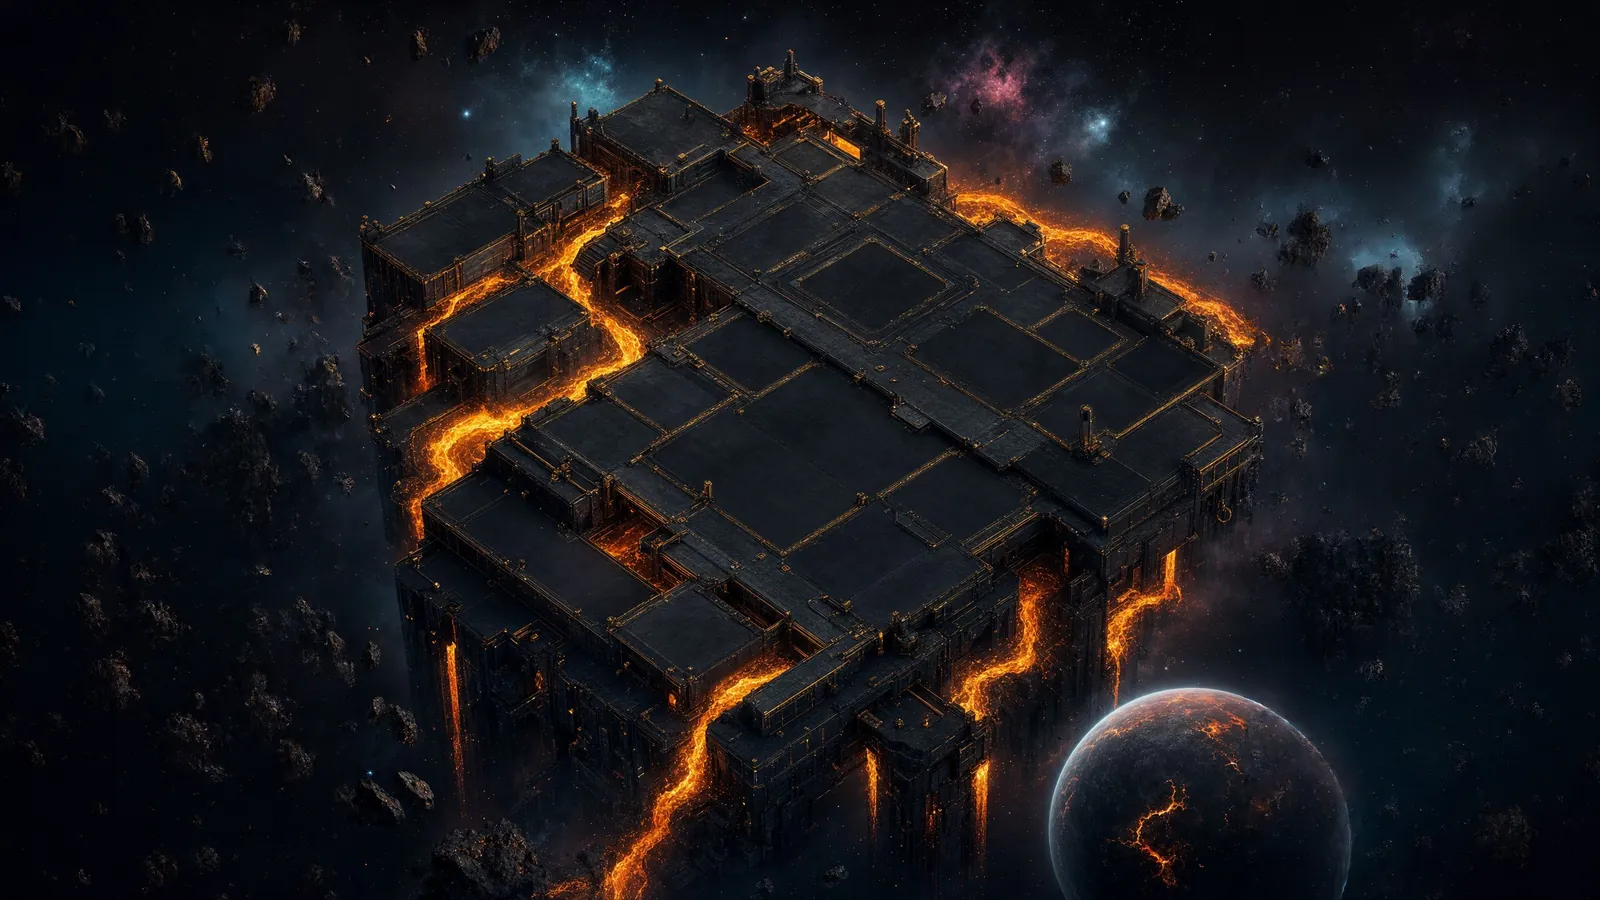
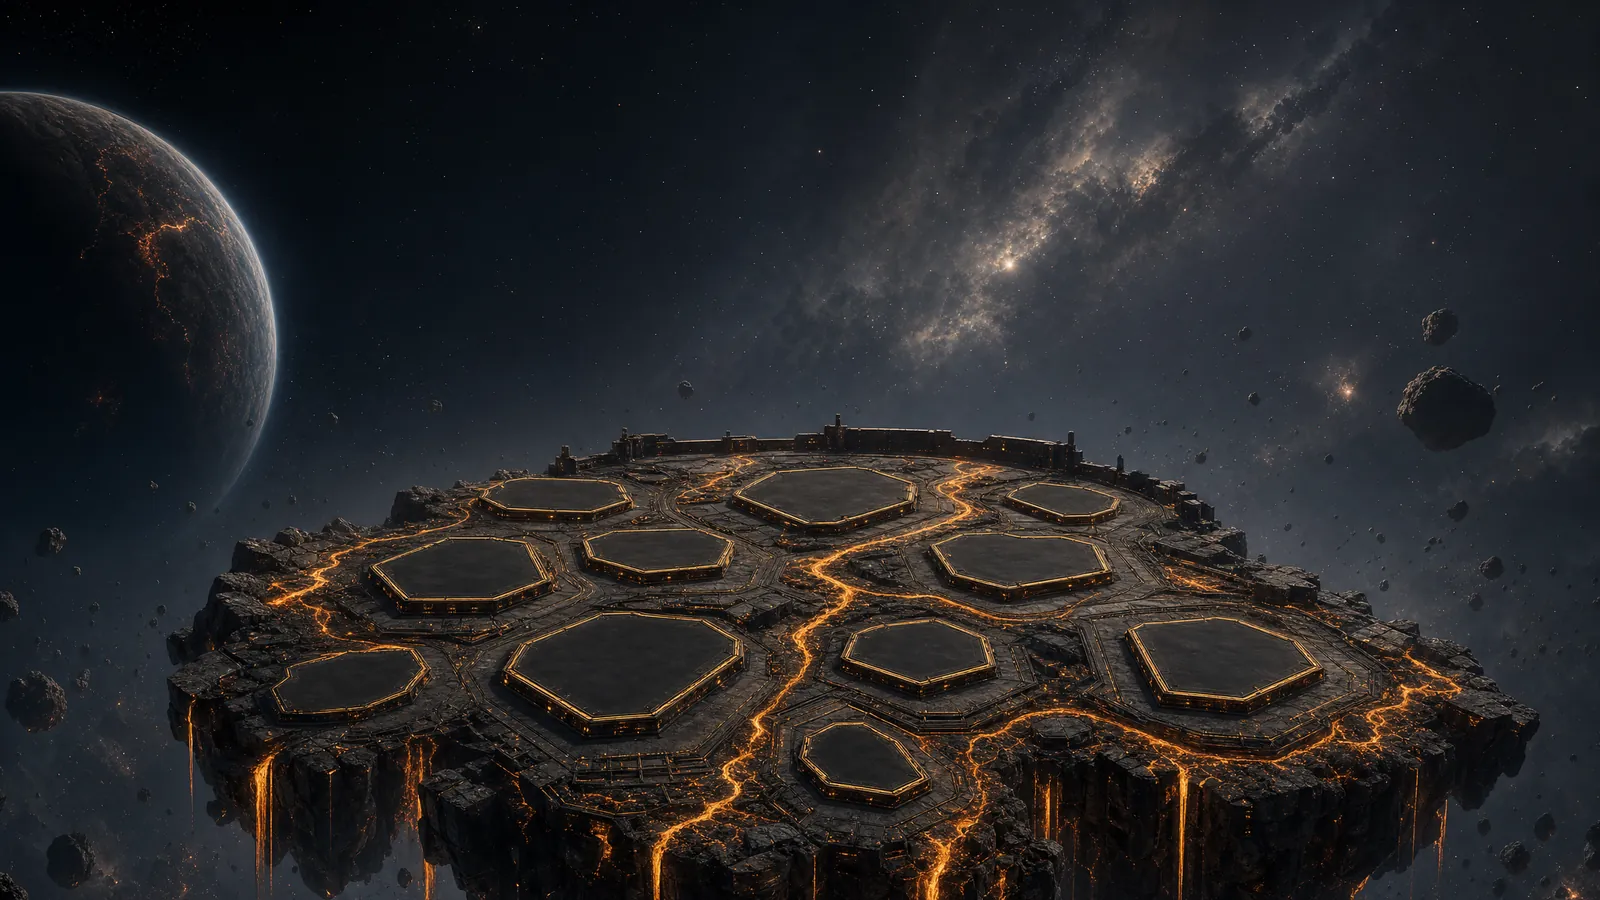
THE YARD: rebuild map with baked foundation pads (organic, grounded)
Replaced the painted platform with a purpose-built base map: an organic
molten-disc platform in space with nine empty foundation pads BAKED INTO
the art (lit, perspective-correct), generated natively at 16:9 and animated
into a seamless loop (lava veins flow, planet drifts, pads stay static).
Machines are placed dead-centre on each baked pad so they sit on real
foundations — grounded, not pasted. Layout is an organic staggered scatter
(not a rigid square), and the deck sits low with open sky above so the tall
back-row buildings have headroom instead of running off the map. Dropped
the CSS plot decal (pads are baked now); kept the contact shadow.

diff --git a/css/yard.css b/css/yard.css
@@ -38,15 +38,9 @@
 .yard-fx::before{ left:46% } .yard-fx::after{ left:54%; animation-delay:-3s }
 @keyframes ember{ 0%{ opacity:0; transform:translateY(0) } 18%{ opacity:.85 } 100%{ opacity:0; transform:translateY(-120px) } }
 
-/* ---- a machine: 0-size anchor at the GROUND point; plot+shadow ground it ---- */
-.bldg{ position:absolute; z-index:var(--z); cursor:pointer; --bw:152px; --padw:116px; --seat:18px; --st:1; }
-/* flat plot decal — a diamond footprint painted on the ground (never floats) */
-.bldg-plot{ position:absolute; left:0; top:0; width:var(--padw); height:calc(var(--padw)*.56);
-  transform:translate(-50%,-50%); clip-path:polygon(50% 0,100% 50%,50% 100%,0 50%);
-  background:linear-gradient(180deg, rgba(34,31,40,.5), rgba(8,7,11,.72));
-  box-shadow:inset 0 0 0 1.5px rgba(245,166,35,.30), inset 0 0 20px rgba(0,0,0,.55);
-  pointer-events:none; transition:box-shadow .3s; }
-/* soft contact shadow — plants the machine on the plot */
+/* ---- a machine: 0-size anchor at the GROUND point (centre of a baked pad) ---- */
+.bldg{ position:absolute; z-index:var(--z); cursor:pointer; --bw:150px; --padw:120px; --seat:16px; --st:1; }
+/* soft contact shadow — plants the machine on its baked foundation pad */
 .bldg-shadow{ position:absolute; left:0; top:0; width:calc(var(--padw)*.86); height:calc(var(--padw)*.4);
   transform:translate(-50%,-48%); border-radius:50%;
   background:radial-gradient(ellipse, rgba(0,0,0,.62), rgba(0,0,0,.28) 55%, transparent 74%);
@@ -54,8 +48,7 @@
 .bldg-art{ position:absolute; left:0; top:0; width:var(--bw); max-width:none; transform-origin:50% 100%;
   transform:translate(-50%, calc(-100% + var(--seat))) scale(var(--st));
   filter:drop-shadow(0 6px 7px rgba(0,0,0,.5)); transition:filter .35s, transform .14s; -webkit-user-drag:none; }
-.bldg:hover .bldg-art{ transform:translate(-50%, calc(-100% + var(--seat) - 4px)) scale(calc(var(--st)*1.03)); }
-.bldg:hover .bldg-plot{ box-shadow:inset 0 0 0 1.5px rgba(245,166,35,.6), inset 0 0 20px rgba(0,0,0,.55); }
+.bldg:hover .bldg-art{ transform:translate(-50%, calc(-100% + var(--seat) - 4px)) scale(calc(var(--st)*1.03)); filter:drop-shadow(0 6px 7px rgba(0,0,0,.5)) drop-shadow(0 0 10px rgba(245,166,35,.35)); }
 .bldg:active .bldg-art{ transform:translate(-50%, calc(-100% + var(--seat))) scale(calc(var(--st)*.98)); }
 /* evolution stages: the machine visibly grows as it levels up */
 .bldg.stage-0{ --st:.92 } .bldg.stage-1{ --st:1.06 } .bldg.stage-2{ --st:1.24 } .bldg.stage-3{ --st:1.46 }
@@ -64,10 +57,9 @@
   0%{ transform:translate(-50%, calc(-100% + 18px)) scale(calc(var(--st)*.82)); filter:brightness(1.7) drop-shadow(0 0 18px var(--gold)) }
   55%{ transform:translate(-50%, calc(-100% + 8px)) scale(calc(var(--st)*1.1)); filter:brightness(1.25) }
   100%{ transform:translate(-50%, calc(-100% + 18px)) scale(var(--st)); filter:none } }
-/* locked machines: dim ghost on a cold pad */
+/* locked machines: dim ghost on its (empty) baked pad */
 .bldg.locked .bldg-art{ filter:grayscale(.92) brightness(.42); }
-.bldg.locked .bldg-plot{ box-shadow:inset 0 0 0 1.5px rgba(120,120,130,.22), inset 0 0 20px rgba(0,0,0,.6); opacity:.7; }
-.bldg.locked .bldg-shadow{ opacity:.55; }
+.bldg.locked .bldg-shadow{ opacity:.45; }
 .bldg.locked .bldg-lock{ display:block; }
 .bldg.locked .bldg-rate{ display:none; }
 

diff --git a/js/iso.js b/js/iso.js
@@ -11,13 +11,12 @@ export const CONTENT_W = 1600, CONTENT_H = 900;   // matches the 16:9 backdrop/l
 // to dodge the lava channels and read as a natural isometric base (a spread
 // diamond, front → back). x,y are fractions of the backdrop.
 export const PLOT = {
-  // a clean isometric 3×3 lattice on the platform's top surface (follows the
-  // map's own perspective → reads as a diamond base, never a screen-square).
-  t0: { x: 0.483, y: 0.560 },                       // front
-  t1: { x: 0.404, y: 0.501 }, t2: { x: 0.569, y: 0.484 },
-  t3: { x: 0.325, y: 0.441 }, t4: { x: 0.490, y: 0.425 }, t5: { x: 0.655, y: 0.408 },
-  t6: { x: 0.411, y: 0.366 }, t7: { x: 0.576, y: 0.349 },
-  t8: { x: 0.497, y: 0.290 },                       // back apex (grandest)
+  // centered on the nine foundation pads BAKED INTO the map art — an organic,
+  // staggered scatter of lit plots (not a rigid grid) so each machine sits on
+  // a real foundation. Back row sits clear of the deck edge → headroom above.
+  t0: { x: 0.510, y: 0.760 }, t1: { x: 0.410, y: 0.750 }, t2: { x: 0.620, y: 0.750 }, // front
+  t3: { x: 0.340, y: 0.630 }, t4: { x: 0.470, y: 0.630 }, t5: { x: 0.590, y: 0.630 }, // middle
+  t6: { x: 0.370, y: 0.510 }, t7: { x: 0.610, y: 0.520 }, t8: { x: 0.490, y: 0.500 }, // back (grandest at centre)
 };
 export const PLOTS = ["t0", "t1", "t2", "t3", "t4", "t5", "t6", "t7", "t8"];
 

diff --git a/js/yard.js b/js/yard.js
@@ -66,7 +66,6 @@ export function renderYard(state, flows, game) {
     b.id = `bldg-${L.id}`; b.dataset.line = L.id; b.dataset.tier = i;
     b.style.left = p.x + "px"; b.style.top = p.y + "px"; b.style.setProperty("--z", zOf(L.id));
     b.innerHTML = `
-      <span class="bldg-plot"></span>
       <span class="ready-ring"></span>
       <span class="bldg-shadow"></span>
       <img class="bldg-art" src="${artSrc(L.id, cp)}" alt="${L.machine}" draggable="false" loading="lazy"
@@ -213,7 +212,7 @@ function renderInspector() {
 // ---- camera: fit + pan, clamped so it never goes tiny or absurdly close ----
 // default framing centers on the PLATFORM (not the empty void) so the base is
 // always the prominent subject — this is the floor for zoom-out.
-const FOCUS = { x0: 0.15, x1: 0.85, y0: 0.05, y1: 0.98 };
+const FOCUS = { x0: 0.16, x1: 0.84, y0: 0.16, y1: 0.92 };
 const Z_MAX = 2.0;
 let zFit = 1;
 export function fitToViewport() {